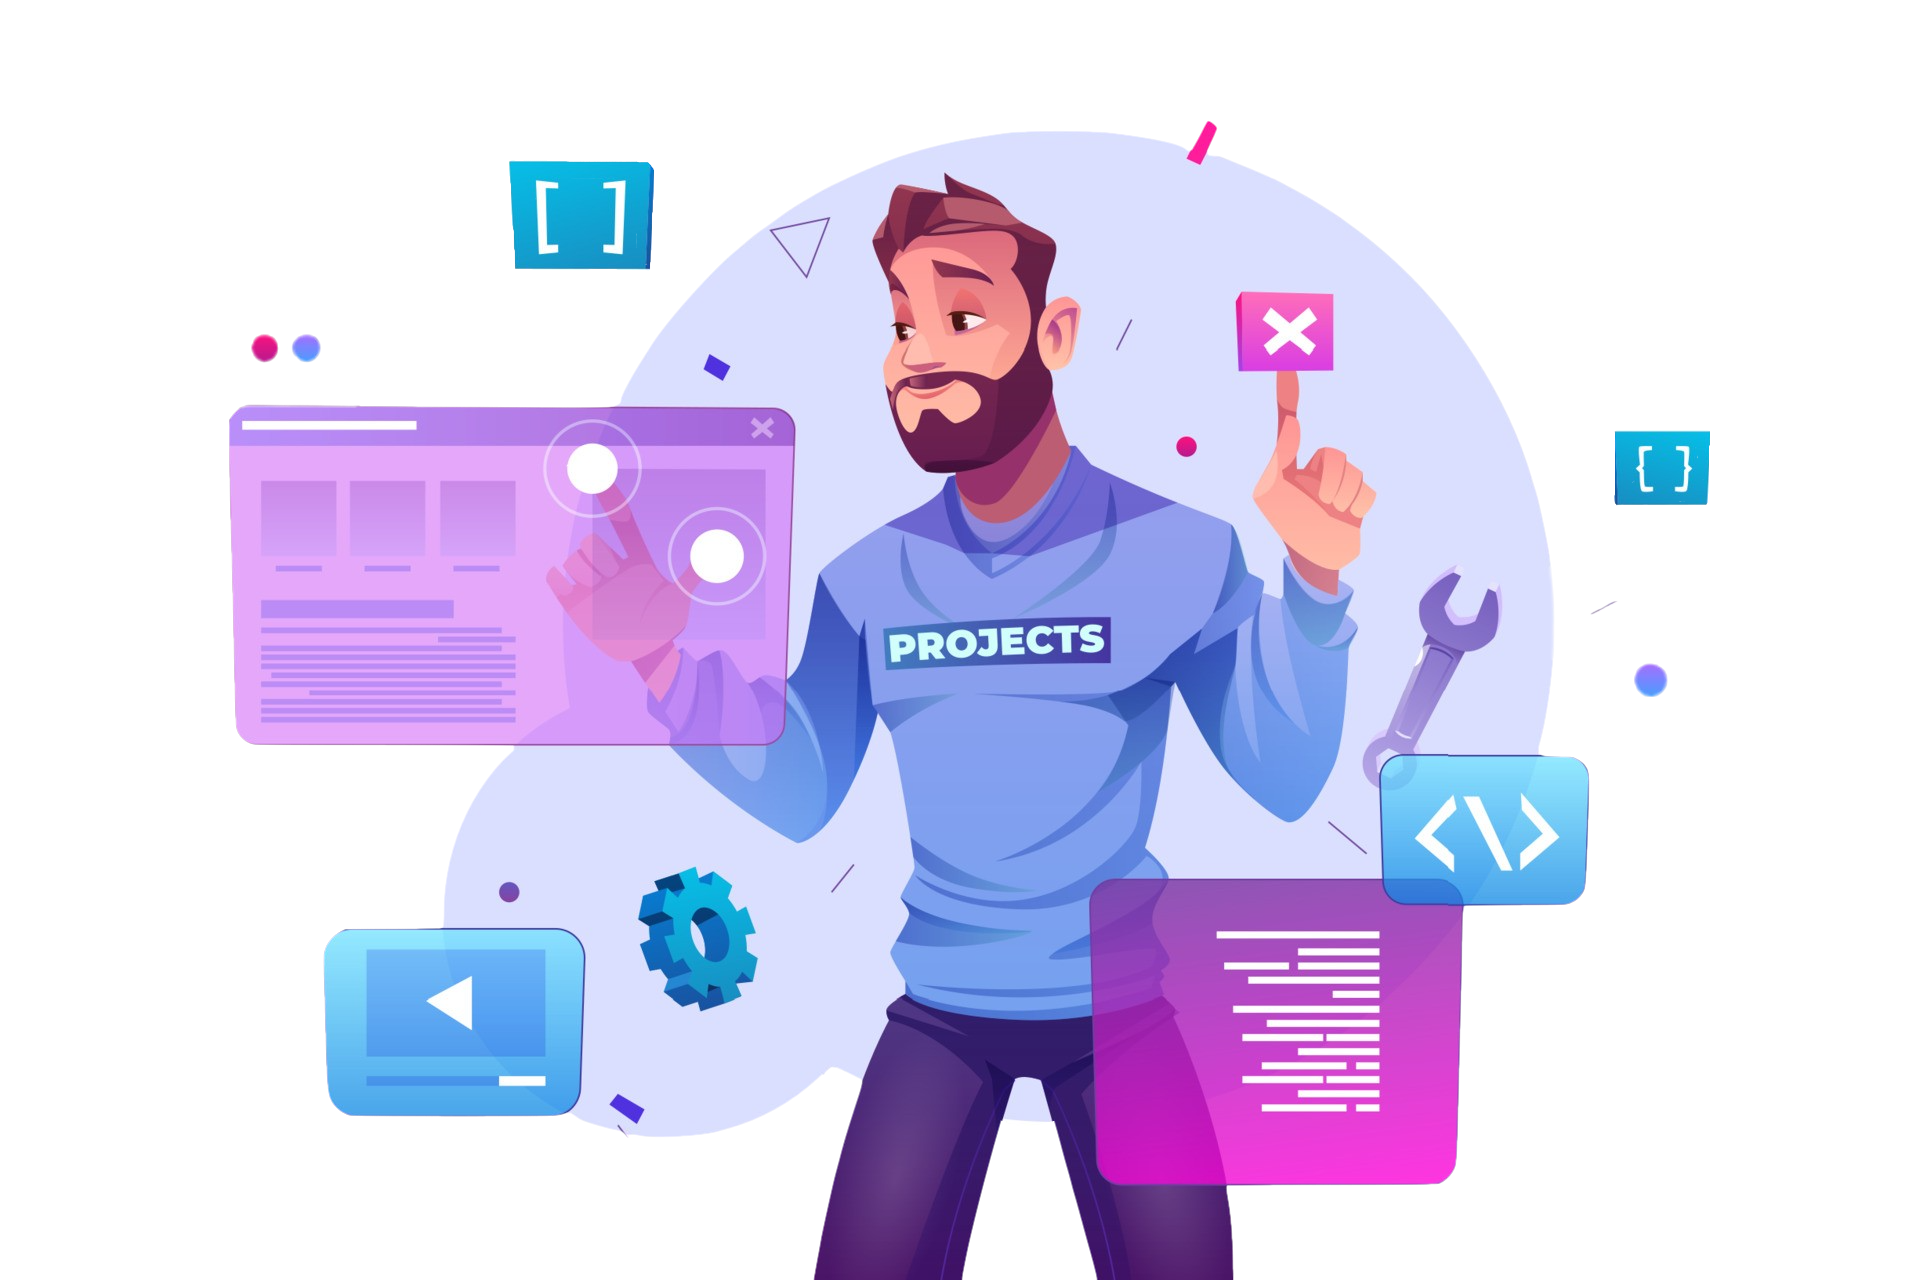
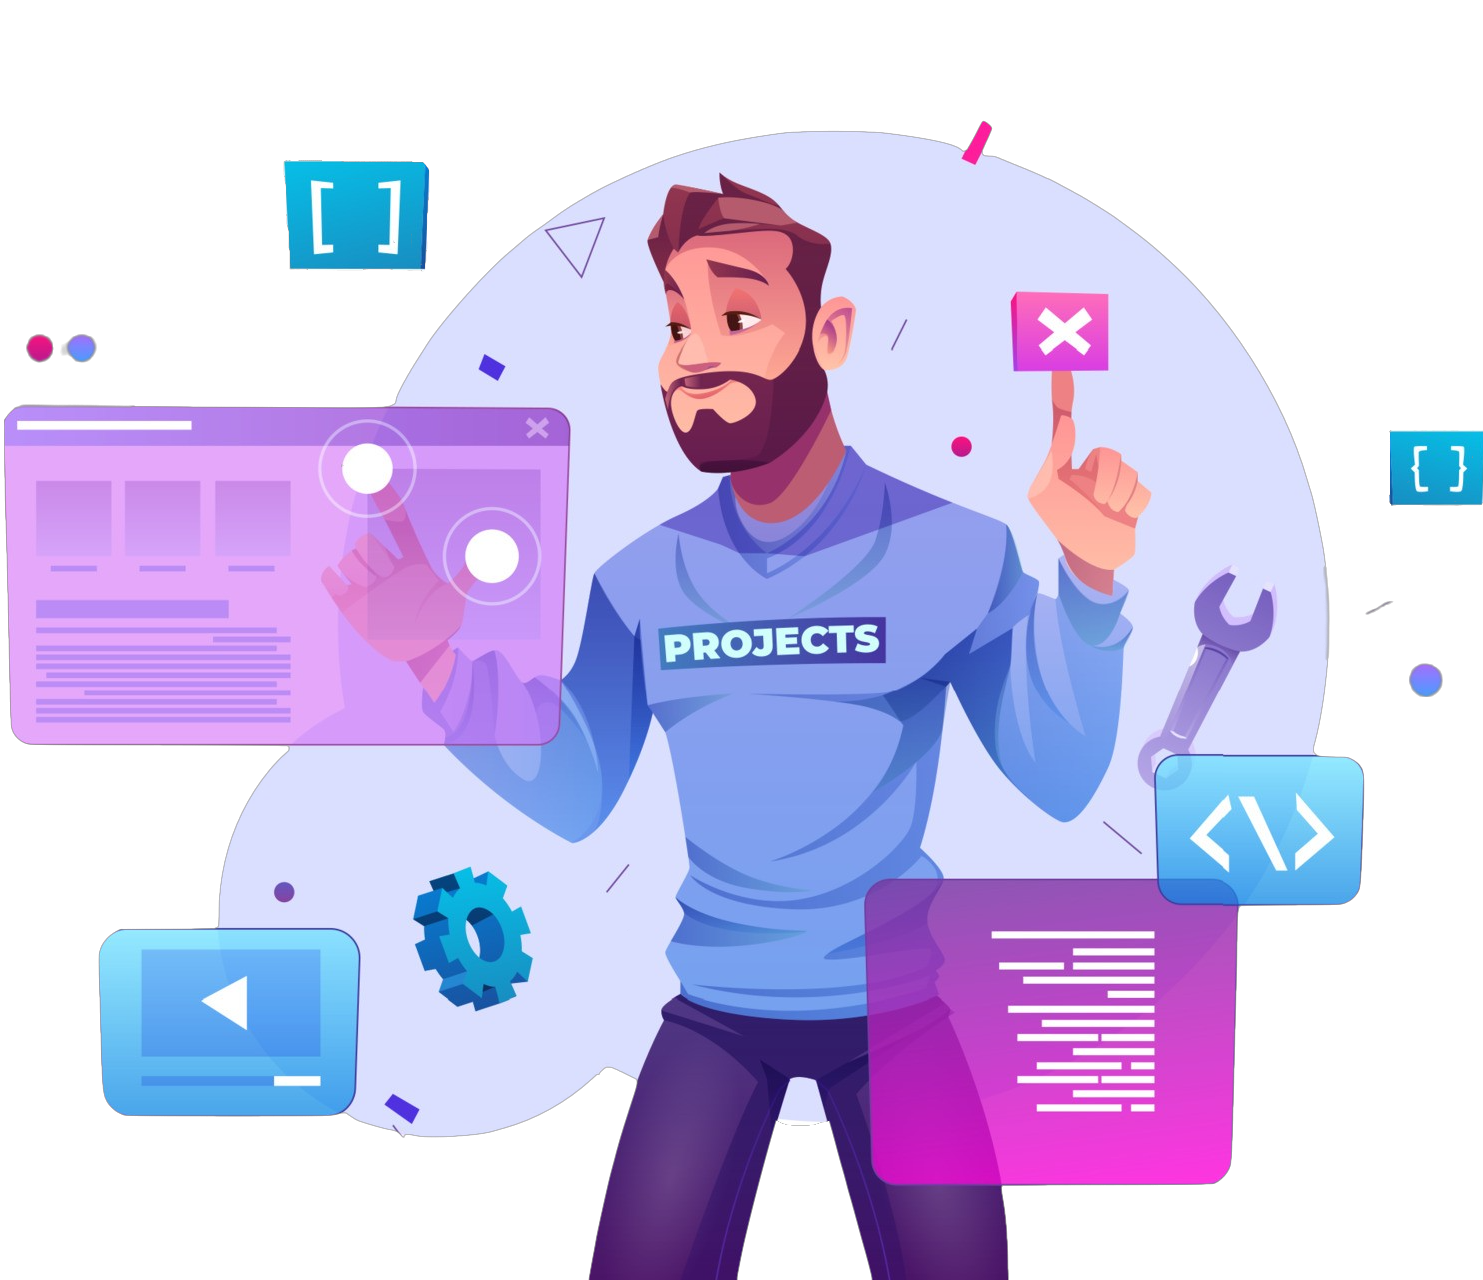
Style qualification card

diff --git a/src/components/Qualification.js b/src/components/Qualification.js
@@ -4,29 +4,45 @@ import { v4 as uuidv4 } from "uuid";
 import { institutionLogo } from "../data/institutionLogo";
 import { education } from "../data/education";
 import { work } from "../data/work";
+import "../styles/Qualification.css";
+import { useTheme } from "../context/ThemeProvider";
 
 const Qualification = () => {
+  const { theme } = useTheme();
   return (
-    <section id="Qualification" className="padding-inline">
-      <p className="uppercase fs-secondary-subheading fw-semi-bold">
-        A Summary of My Background
-      </p>
-      <h2 className="fs-secondary-heading fw-bold text-accent">
-        Qualification
-      </h2>
-      <QualificationLayout cat={education} />
-      <QualificationLayout cat={work} />
-      <ul>
-        {institutionLogo.map((item) => {
-          return (
-            <li key={uuidv4()}>
-              <a href={item.link} target="_blank" rel="noreferrer">
-                <img src={item.logo} alt={item.title} width="50px" />
-              </a>
-            </li>
-          );
-        })}
-      </ul>
+    <section
+      id="Qualification"
+      className={`qualification-container | padding-inline padding-block ${
+        theme === "light" && "qualification-light"
+      }`}
+    >
+      <div class="qualification-wrapper">
+        <div class="qualification-title">
+          <p className="uppercase fs-secondary-subheading fw-semi-bold">
+            A Summary of My Background
+          </p>
+          <h2 className="fs-secondary-heading fw-bold text-accent">
+            Qualification
+          </h2>
+        </div>
+        <div class="qualification-card-container">
+          <QualificationLayout cat={education} />
+          <QualificationLayout cat={work} />
+        </div>
+        <ul className="init-logo-bar">
+          <div class="logo-wrapper">
+            {institutionLogo.map((item) => {
+              return (
+                <li key={uuidv4()}>
+                  <a href={item.link} target="_blank" rel="noreferrer">
+                    <img src={item.logo} alt={item.title} />
+                  </a>
+                </li>
+              );
+            })}
+          </div>
+        </ul>
+      </div>
     </section>
   );
 };

diff --git a/src/styles/Qualification.css b/src/styles/Qualification.css
@@ -1,0 +1,76 @@
+.qualification-container {
+  position: relative;
+  background: no-repeat url(../assets/background/wave-dark-skills.svg),
+    linear-gradient(#171c23 0%, #171c23 100%);
+  background-position: top;
+}
+
+.qualification-light {
+  background: no-repeat url(../assets/background/wave-light-skills.svg),
+    linear-gradient(#fff 0%, #fff 100%);
+  background-position: top;
+}
+
+.qualification-wrapper {
+  display: grid;
+  text-align: center;
+  max-width: 1200px;
+  margin-inline: auto;
+  gap: 3rem;
+  padding-block: 10rem 7.5rem;
+}
+
+.qualification-card-container {
+  display: grid;
+  gap: 4rem;
+  place-content: center;
+  place-items: center;
+}
+
+.init-logo-bar {
+  position: absolute;
+  width: 80%;
+  max-width: 350px;
+  border-radius: 10px;
+  border: rgba(41, 216, 130, 0.25) solid 3px;
+  background-color: var(--clr-secondary-500);
+  padding: 1rem 1rem;
+  left: 50%;
+  bottom: -100px;
+  transform: translate(-50%, -50%);
+}
+
+.logo-wrapper {
+  display: grid;
+  grid-auto-flow: column;
+
+  gap: 1.25rem;
+}
+
+@media (min-width: 40em) and (max-width: 55em) {
+  .init-logo-bar {
+    max-width: 500px;
+    bottom: -130px;
+    padding: 1.5rem 2rem;
+  }
+
+  .logo-wrapper {
+    gap: 3rem;
+  }
+}
+
+@media (min-width: 55em) {
+  .qualification-card-container {
+    grid-auto-flow: column;
+  }
+
+  .init-logo-bar {
+    max-width: 650px;
+    bottom: -150px;
+    padding: 1.5rem 3rem;
+  }
+
+  .logo-wrapper {
+    gap: 4rem;
+  }
+}

diff --git a/src/components/cards/QualificationCard.js b/src/components/cards/QualificationCard.js
@@ -1,16 +1,21 @@
 import React from "react";
 import landmarkIcon from "../../assets/qualifications/Landmark.png";
+import "../../styles/QualificationCard.css";
 
 const QualificationCard = ({ cardInfo }) => {
   return (
-    <li>
-      <h4 className="fs-secondary-body fw-semi-bold">{cardInfo.title}</h4>
-      <p className="fs-secondary-subheading text-tertiary">
-        {cardInfo.program}
-      </p>
+    <li className="qual-card">
+      <div class="program-container">
+        <h4 className="fs-secondary-body fw-semi-bold">{cardInfo.title}</h4>
+        <p className="fs-secondary-subheading text-tertiary">
+          {cardInfo.program}
+        </p>
+      </div>
       <img src={landmarkIcon} alt="" width="25" />
-      <p className="fs-secondary-subheading text-tertiary">
-        {cardInfo.year} | {cardInfo.institution}
+      <p className="qual-card-info | fs-secondary-subheading fw-semi-bold ">
+        <span>{cardInfo.year}</span>
+        <br />
+        <span className="text-tertiary fw-regular">{cardInfo.institution}</span>
       </p>
     </li>
   );

diff --git a/src/components/layout/QualificationLayout.js b/src/components/layout/QualificationLayout.js
@@ -2,19 +2,23 @@ import React from "react";
 import { v4 as uuidv4 } from "uuid";
 import Dot from "../../assets/qualifications/Dot.png";
 import QualificationCard from "../cards/QualificationCard";
+import "../../styles/QualificationLayout.css";
 
 const QualificationLayout = ({ cat }) => {
   return (
-    <>
+    <div className="qual-layout-container">
       <h3 className="uppercase fs-primary-body fw-bold">{cat.category}</h3>
       <img src={cat.icon} alt={`${cat.category}'s logo`} width="50px" />
-      <ul>
+      <ul className="qual-list">
         {cat.list.map((item) => {
           return <QualificationCard key={uuidv4()} cardInfo={item} />;
         })}
       </ul>
       <img src={Dot} width="25px" alt="" />
-    </>
+      <div
+        className={`qual-connector ${cat.category === "Education" && "edu"}`}
+      ></div>
+    </div>
   );
 };
 

diff --git a/src/styles/QualificationLayout.css b/src/styles/QualificationLayout.css
@@ -1,0 +1,54 @@
+.qual-layout-container {
+  display: grid;
+  justify-items: center;
+  gap: 1rem;
+}
+
+.qual-list {
+  padding-top: 3rem;
+  display: grid;
+  gap: 1rem;
+}
+
+.qual-connector {
+  display: block;
+  position: absolute;
+  bottom: 170px;
+  width: 1px;
+  height: 420px;
+  background-color: var(--clr-accent-600);
+}
+
+.qual-connector.edu {
+  bottom: 760px;
+}
+
+@media (min-width: 40em) and (max-width: 55em) {
+  .qual-connector {
+    bottom: 180px;
+  }
+
+  .qual-connector.edu {
+    bottom: 770px;
+  }
+}
+
+@media (min-width: 55em) {
+  .qual-connector {
+    bottom: 180px;
+  }
+
+  .qual-connector.edu {
+    bottom: 180px;
+  }
+}
+
+@media (min-width: 70em) {
+  .qual-connector {
+    bottom: 185px;
+  }
+
+  .qual-connector.edu {
+    bottom: 185px;
+  }
+}

diff --git a/src/components/About.js b/src/components/About.js
@@ -1,6 +1,6 @@
 import React from "react";
-// import aboutIllustrators from "../assets/About-me.png";
-import aboutIllustrators from "../assets/About-cropped.png";
+import aboutIllustrators from "../assets/About.png";
+// import aboutIllustrators from "../assets/About-cropped.png";
 import "../styles/About.css";
 
 const About = () => {
@@ -15,11 +15,6 @@ const About = () => {
           src={aboutIllustrators}
           alt="developer-illustrator"
         />
-        {/* <img
-          className="illustImage"
-          src={aboutIllustrators}
-          alt="developer-illustrator"
-        /> */}
         <div class="about-info">
           <div class="about-title">
             <p className="uppercase fs-secondary-subheading fw-semi-bold">

diff --git a/src/data/education.js b/src/data/education.js
@@ -11,14 +11,14 @@ export const education = {
       year: "Oct 2022 - Present",
     },
     {
-      title: "Master's Degree",
-      program: "Electrical and Computer Engineering",
+      title: "Master's Degree, Engineering",
+      program: "Electrical and Computer",
       institution: "University of New Brunswick",
       year: "Sept 2020 - Dec 2022",
     },
     {
-      title: "Bachelor's Degree",
-      program: "Electrical and Electronics Engineering",
+      title: "Bachelor's Degree, Engineering",
+      program: "Electrical and Electronics",
       institution: "Sri Krishna Technology",
       year: "Aug 2015 - Apr 2019",
     },

diff --git a/src/styles/Skills.css b/src/styles/Skills.css
@@ -8,10 +8,10 @@
 
 .skillCardContainer {
   display: grid;
-  grid-template-columns: repeat(auto-fit, 160px);
+  grid-template-columns: repeat(auto-fit, 140px);
   grid-auto-rows: 140px;
   justify-content: space-evenly;
-  gap: 1.5rem;
+  gap: 2rem;
 }
 
 @media (min-width: 55em) {
@@ -21,8 +21,8 @@
 
   .skillCardContainer {
     display: grid;
-    grid-template-columns: repeat(auto-fit, 220px);
-    grid-auto-rows: 200px;
-    gap: 2rem;
+    grid-template-columns: repeat(auto-fit, 190px);
+    grid-auto-rows: 170px;
+    gap: 4rem;
   }
 }

diff --git a/src/components/Projects.js b/src/components/Projects.js
@@ -5,7 +5,11 @@ import { v4 as uuidv4 } from "uuid";
 
 const Projects = () => {
   return (
-    <section id="Projects" className="padding-inline">
+    <section
+      id="Projects"
+      style={{ paddingTop: "10rem" }}
+      className="padding-inline"
+    >
       <p className="uppercase fs-secondary-subheading fw-semi-bold">
         Some of my recent work
       </p>

diff --git a/src/data/work.js b/src/data/work.js
@@ -17,7 +17,7 @@ export const work = {
       year: "Jan 2022 - Apr 2022",
     },
     {
-      title: "Co-instructor & Teaching Assistant",
+      title: "Co-instructor & TA",
       institution: "University of New Brunswick",
       program: "GSTA",
       year: "Sep 2021 - Apr 2022",

diff --git a/src/styles/QualificationCard.css b/src/styles/QualificationCard.css
@@ -1,0 +1,16 @@
+.qual-card {
+  display: grid;
+  grid-auto-flow: column;
+  grid-template-columns: 1fr 1.5rem 1fr;
+  grid-auto-rows: 100px;
+  text-align: start;
+  gap: 1.5rem;
+}
+
+.qual-card > img {
+  justify-self: center;
+}
+
+.qual-card-info {
+  padding-left: 2rem;
+}

diff --git a/src/styles/SkillCard.css b/src/styles/SkillCard.css
@@ -3,7 +3,7 @@
   gap: 1rem;
   place-content: center;
   place-items: center;
-  border-radius: 5px;
+  border-radius: 10px;
   box-shadow: 0 4px 8px 0 rgba(125, 125, 125, 0.1),
     0 3px 30px 0 rgba(125, 125, 125, 0.1);
 }
